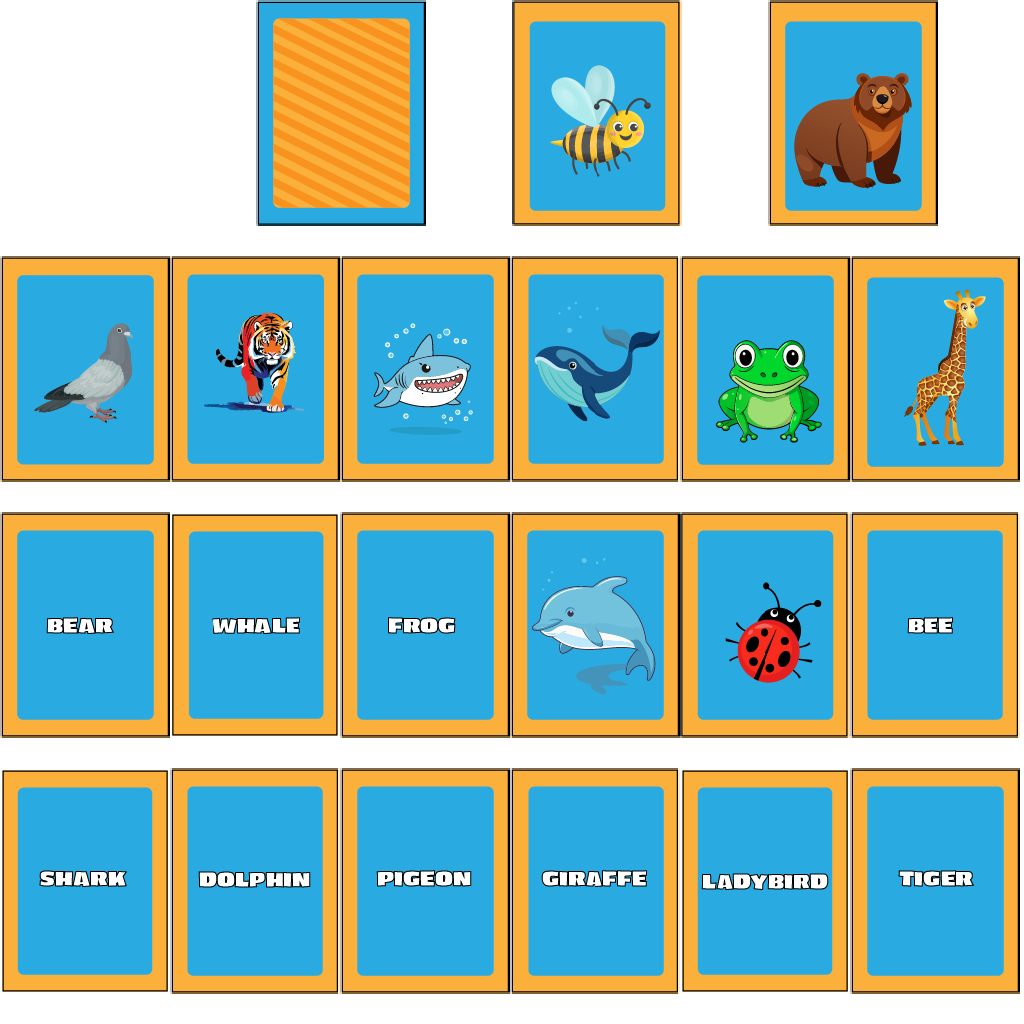
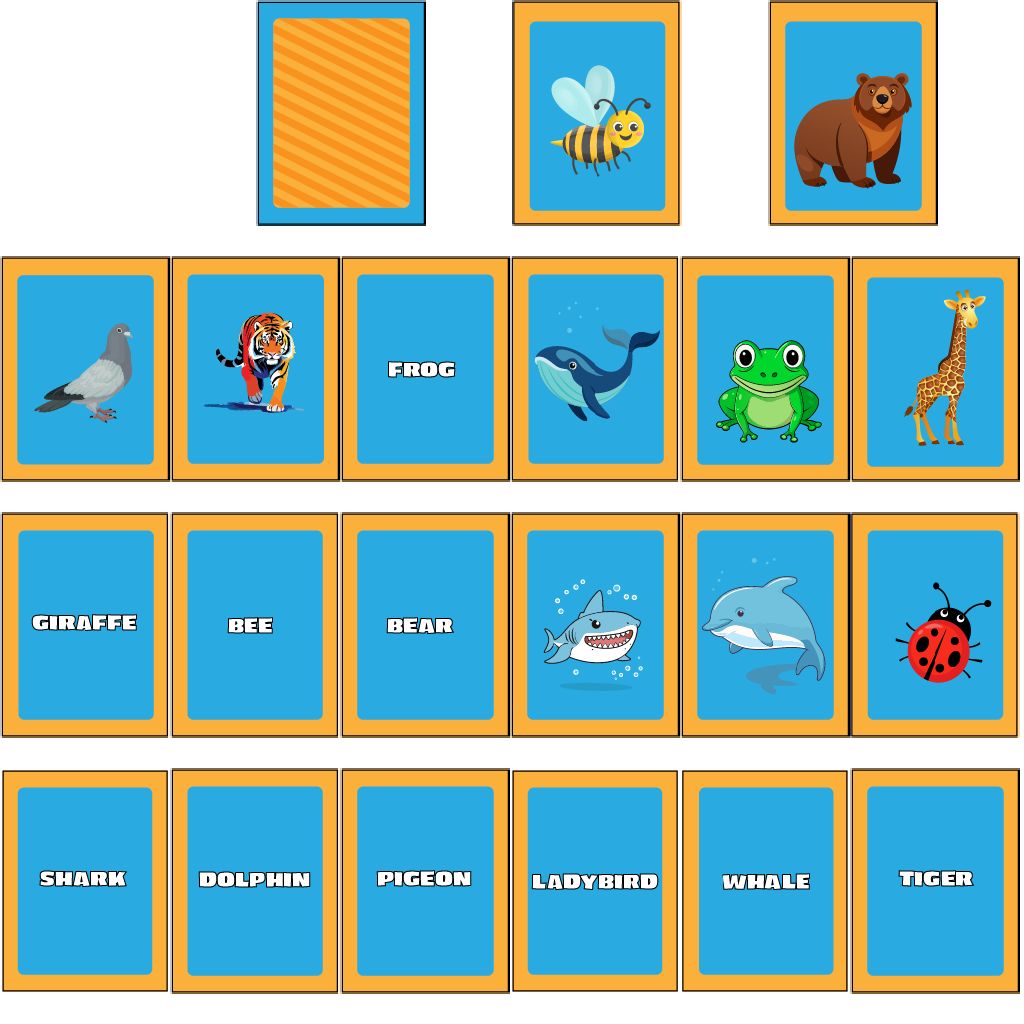
Açılışta görünme eklendi

diff --git a/scripts/objRefTable.js b/scripts/objRefTable.js
@@ -23,18 +23,19 @@ self.C3_GetObjectRefTable = function () {
 		C3.Plugins.Sprite.Acts.SetInstanceVar,
 		C3.Plugins.Arr.Exps.At,
 		C3.Plugins.System.Acts.AddVar,
-		C3.Plugins.System.Cnds.ForEach,
+		C3.Plugins.System.Cnds.PickAll,
 		C3.Plugins.System.Acts.Wait,
 		C3.Behaviors.Tween.Acts.TweenOneProperty,
+		C3.Plugins.System.Acts.WaitForPreviousActions,
+		C3.Plugins.Sprite.Acts.SetAnim,
+		C3.Plugins.Sprite.Acts.SetAnimFrame,
+		C3.Plugins.System.Cnds.ForEach,
 		C3.Plugins.Arr.Acts.SetSize,
 		C3.Plugins.Arr.Acts.Push,
 		C3.Plugins.Arr.Acts.Shuffle,
 		C3.Plugins.System.Cnds.CompareVar,
 		C3.Plugins.Touch.Cnds.OnTapGestureObject,
 		C3.Plugins.Sprite.Cnds.IsAnimPlaying,
-		C3.Plugins.Sprite.Acts.SetAnim,
-		C3.Plugins.Sprite.Acts.SetAnimFrame,
-		C3.Plugins.System.Acts.WaitForPreviousActions,
 		C3.Plugins.System.Cnds.TriggerOnce,
 		C3.Plugins.System.Cnds.Compare,
 		C3.Plugins.System.Cnds.PickByComparison,

diff --git a/scripts/c3runtime.js b/scripts/c3runtime.js
@@ -1415,6 +1415,16 @@ self.C3_ExpressionFuncs = [
 			const v1 = p._GetNode(1).GetVar();
 			return () => n0.ExpObject(v1.GetValue());
 		},
+		() => 2.2,
+		() => 0.2,
+		() => "on",
+		p => {
+			const n0 = p._GetNode(0);
+			return () => n0.ExpInstVar();
+		},
+		() => 3,
+		() => "arka",
+		() => 0.3,
 		() => "KartlarHazır",
 		p => {
 			const f0 = p._GetNode(0).GetBoundMethod();
@@ -1428,14 +1438,6 @@ self.C3_ExpressionFuncs = [
 			return () => f0();
 		},
 		() => "Tıklandığında",
-		() => "arka",
-		() => 0.2,
-		() => 0.3,
-		() => "on",
-		p => {
-			const n0 = p._GetNode(0);
-			return () => n0.ExpInstVar();
-		},
 		() => 2,
 		() => "SonucaBak",
 		() => "Kart Kontrol",
